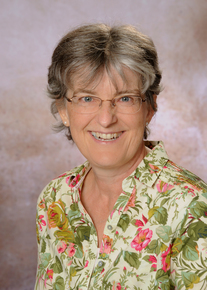
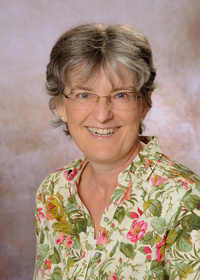
Etwas kleiner.

diff --git a/nusse.css b/nusse.css
@@ -44,7 +44,7 @@ img.mittel {
 }
 
 .portraet img {
-  max-height: 290px;
+  max-height: 280px;
 }
 
 .menu-padding {
